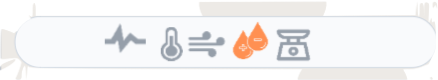
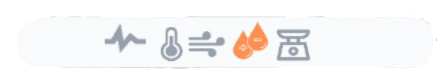
added another table and some images

diff --git a/templates/profile.html b/templates/profile.html
@@ -7,25 +7,25 @@
     }
     #gender, #ethnicity, #dob, #smoking_habits,  #alcohol, #conditions, #exercise, #allergies {
         width: 95%;
-        height: 50px;
-        border-spacing: 20px;
+        height: 40px;
+        border-spacing: 15px;
         padding: 20px;
         table-layout: fixed;
-        margin: 10px;
+        margin: 3px;
         color: solid gray;
     }
     #address {
         width: 95%;
-        height: 175px;
+        height: 185px;
         border-spacing: 20px;
         padding: 20px;
         table-layout: fixed;
-        margin: 10px;
+        margin: 3px;
         color: solid gray;
     }
     #top_table{
     /* #languages, #name, #phone_number, #dob_age, #phone_number, #email, #blood_type { */
-        width: 35%;
+        width: 40%;
         height: 25px;
         border-collapse: separate;
         border-spacing: 5px 5px;
@@ -40,24 +40,58 @@
         padding: 5px;
         word-wrap: break-word;
     }
+    #bottom_table{
+        width: 80%;
+        height: 25px;
+        border-collapse: separate;
+        border-spacing: 3px 3px;
+        padding: 5px;
+        table-layout: fixed;
+        margin: 5px;
+        color: solid gray; 
+    }
+    #bottom_table th{
+        font-size: 17px;
+        width: 45%;
+        padding: 3px;
+        border: transparent;
+        /* word-wrap: break-word; */
+    }
     .floatLeft { width: 50%; float: left; }
     .floatRight {width: 50%; float: right; }
     .floatRight_upper{
         float: left;
         width: 85%;
-        padding: 5px;
+        /* padding: -5px; */
         
     }
     .floatLeft_upper {
         float: left;
         width: 13%;
-        padding: 5px;
+        /* padding: -5px; */
     }
     .upper::after {
         content: "";
         clear: both;
         display: table;
     }
+    .floatRight_lower{
+        float: left;
+        width: 65%;
+        /* padding: 5px; */
+        
+    }
+    .floatLeft_lower {
+        float: left;
+        width: 25%;
+        /* padding: 5px; */
+    }
+    .lower::after {
+        content: "";
+        clear: both;
+        display: table;
+    }
+
 
 </style>
 <section clas="section mx-5">
@@ -77,15 +111,14 @@
 <a href="{{ url_for('index') }}">Go back</a>
 <a href="{{ url_for('new_patient') }}" class="mb-1 d-flex justify-content-center" id="hide"><i class="fas fa-user-plus new-user"></i></a>
 </div>
+</div>
+</div>
 
-</div>
-</div>
-<hr>
 </section>
 <div class="upper">
 <!-- <div id="header" style="height:15%;width:100%;"> -->
 <div class="floatLeft_upper">
-<img src="https://aac9512a-9fe6-4842-b11f-146346af8bef.ws-us02.gitpod.io/mini-browser/workspace/La-Ruche/static/images/picture_holder.jpg" alt="Pic" width="115" height="115">
+<img src="https://aac9512a-9fe6-4842-b11f-146346af8bef.ws-us02.gitpod.io/mini-browser/workspace/La-Ruche/static/images/picture_holder.jpg" alt="Pic" width="115" height="105">
 </div>
 <div class="floatRight_upper">
 <table id="top_table">
@@ -178,7 +211,36 @@
   </tr>
 </table>
 </div>
-<div class="row">
+</div>
+<!-- <div class="row"> -->
+<hr>
+<div class="floatRight">
+    <img src="https://aac9512a-9fe6-4842-b11f-146346af8bef.ws-us02.gitpod.io/mini-browser/workspace/La-Ruche/static/images/symbols.jpg" alt="symbols">
+</div>
+<div class="floatRight">
+<div class="lower">
+<div class="floatLeft_lower">
+    <img src="https://aac9512a-9fe6-4842-b11f-146346af8bef.ws-us02.gitpod.io/mini-browser/workspace/La-Ruche/static/images/heart.jpg" alt="heart" height="100" width="100">
+</div>
+
+<div class="floatRight_lower">
+<table id="bottom_table">
+    <tr>
+    <th>SYS mmhg</th>
+    <th>0</th>
+  </tr>
+  <tr>
+     <th>DIA mmhg</th>
+     <th>0</th>
+  </tr>
+  <tr>
+    <th>PULSE/min</th>
+    <th>0</th>
+  </tr>
+</table>
+</div>
+</div>
+</div>
 
 
 
